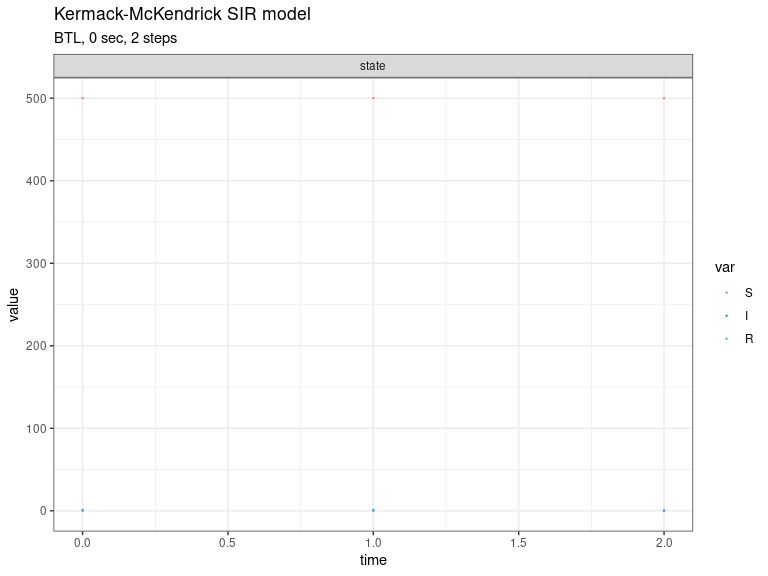
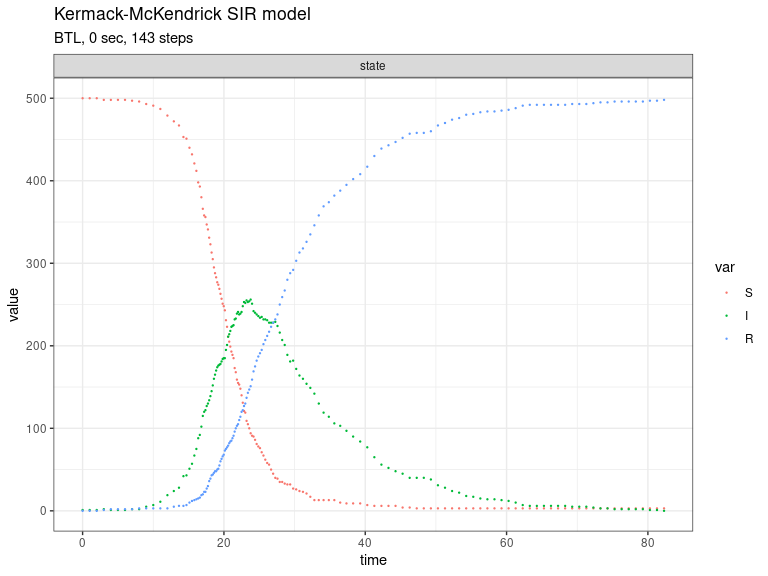
* bug fix in BTL (limiting and limiting_test should be integers, not doubles) * add helper function for testing SSA step methods

diff --git a/src/RcppExports.cpp b/src/RcppExports.cpp
@@ -45,14 +45,30 @@ BEGIN_RCPP
     return rcpp_result_gen;
 END_RCPP
 }
-// make_ssa_btl
-SEXP make_ssa_btl(double f);
-RcppExport SEXP _gillespie_make_ssa_btl(SEXP fSEXP) {
+// test_ssa_step
+List test_ssa_step(SEXP ssa_alg, const NumericVector& state, const NumericVector& propensity, const IntegerVector& nu_i, const IntegerVector& nu_p, const IntegerVector& nu_x);
+RcppExport SEXP _gillespie_test_ssa_step(SEXP ssa_algSEXP, SEXP stateSEXP, SEXP propensitySEXP, SEXP nu_iSEXP, SEXP nu_pSEXP, SEXP nu_xSEXP) {
 BEGIN_RCPP
     Rcpp::RObject rcpp_result_gen;
     Rcpp::RNGScope rcpp_rngScope_gen;
-    Rcpp::traits::input_parameter< double >::type f(fSEXP);
-    rcpp_result_gen = Rcpp::wrap(make_ssa_btl(f));
+    Rcpp::traits::input_parameter< SEXP >::type ssa_alg(ssa_algSEXP);
+    Rcpp::traits::input_parameter< const NumericVector& >::type state(stateSEXP);
+    Rcpp::traits::input_parameter< const NumericVector& >::type propensity(propensitySEXP);
+    Rcpp::traits::input_parameter< const IntegerVector& >::type nu_i(nu_iSEXP);
+    Rcpp::traits::input_parameter< const IntegerVector& >::type nu_p(nu_pSEXP);
+    Rcpp::traits::input_parameter< const IntegerVector& >::type nu_x(nu_xSEXP);
+    rcpp_result_gen = Rcpp::wrap(test_ssa_step(ssa_alg, state, propensity, nu_i, nu_p, nu_x));
+    return rcpp_result_gen;
+END_RCPP
+}
+// make_ssa_btl
+SEXP make_ssa_btl(double mean_firings);
+RcppExport SEXP _gillespie_make_ssa_btl(SEXP mean_firingsSEXP) {
+BEGIN_RCPP
+    Rcpp::RObject rcpp_result_gen;
+    Rcpp::RNGScope rcpp_rngScope_gen;
+    Rcpp::traits::input_parameter< double >::type mean_firings(mean_firingsSEXP);
+    rcpp_result_gen = Rcpp::wrap(make_ssa_btl(mean_firings));
     return rcpp_result_gen;
 END_RCPP
 }
@@ -81,6 +97,7 @@ END_RCPP
 static const R_CallMethodDef CallEntries[] = {
     {"_gillespie_make_ode_em", (DL_FUNC) &_gillespie_make_ode_em, 2},
     {"_gillespie_simulate", (DL_FUNC) &_gillespie_simulate, 18},
+    {"_gillespie_test_ssa_step", (DL_FUNC) &_gillespie_test_ssa_step, 6},
     {"_gillespie_make_ssa_btl", (DL_FUNC) &_gillespie_make_ssa_btl, 1},
     {"_gillespie_make_ssa_direct", (DL_FUNC) &_gillespie_make_ssa_direct, 0},
     {"_gillespie_make_ssa_etl", (DL_FUNC) &_gillespie_make_ssa_etl, 1},

diff --git a/src/ssa_btl.cpp b/src/ssa_btl.cpp
@@ -5,9 +5,9 @@ using namespace Rcpp;
 
 class SSA_BTL : public SSA {
 public:
-  SSA_BTL(double f_) : SSA("BTL"), f(f_) {}
+  SSA_BTL(double mean_firings_) : SSA("BTL"), mean_firings(mean_firings_) {}
 
-  double f;
+  double mean_firings;
 
   void step(
       const NumericVector& state,
@@ -19,35 +19,37 @@ public:
       NumericVector& dstate,
       NumericVector& firings
   ) {
+    // TODO: could split up nu into positive and negative nus
+
     int M = propensity.size();
 
     // Calculate tau
-    double tau = f / sum(propensity);
+    double tau = mean_firings / sum(propensity);
     if (tau > 1.0) tau = 1.0; // tau cannot be larger than one
 
     bool coercing = false;
 
     // Loop over all reaction channels having propensity fun>0
-    double limiting, limiting_test, prob;
-    int k;
+    double prob;
+    int limiting, limiting_test, k;
 
     int nu_pos;
     double nu_val;
     int i, j;
     for (j = 0; j < M; j++) {
       if (propensity[j] > 0) {
-        limiting = -1;
+        limiting = 1;
         for (i = nu_p[j]; i < nu_p[j+1]; i++) {
           nu_val = nu_x[i];
           if (nu_val < 0) {
             nu_pos = nu_i[i];
             limiting_test = (state[nu_pos] + dstate[nu_pos]) / -nu_val;
-            if (limiting == -1 || limiting_test < limiting) {
+            if (limiting_test < limiting) {
               limiting = limiting_test;
             }
           }
         }
-        if (limiting != -1) {
+        if (limiting < 1) {
           prob = propensity[j] * tau / limiting;
           if (prob > 1) {
             coercing = true;
@@ -59,6 +61,9 @@ public:
         }
 
         firings[j] += k;
+
+        // TODO: Could determine firings first,
+        // if prob > 1, mean_firings could be set to 1 for this iteration only
 
         // determine firing effect
         for (i = nu_p[j]; i < nu_p[j+1]; i++) {
@@ -74,8 +79,8 @@ public:
 } ;
 
 // [[Rcpp::export]]
-SEXP make_ssa_btl(double f) {
-  SSA_BTL *ssa = new SSA_BTL(f);
+SEXP make_ssa_btl(double mean_firings) {
+  SSA_BTL *ssa = new SSA_BTL(mean_firings);
   XPtr<SSA_BTL> ptr(ssa);
   return ptr;
 }

diff --git a/src/simulate.cpp b/src/simulate.cpp
@@ -303,3 +303,25 @@ List simulate(
     _["sim_name"] = sim_name
   );
 }
+
+
+// [[Rcpp::export]]
+List test_ssa_step(
+    SEXP ssa_alg,
+    const NumericVector& state,
+    const NumericVector& propensity,
+    const IntegerVector& nu_i,
+    const IntegerVector& nu_p,
+    const IntegerVector& nu_x
+) {
+  SSA *ssa_alg_ = XPtr<SSA>(ssa_alg);
+  double dtime = 0;
+  NumericVector dstate(state.size());
+  NumericVector firings(propensity.size());
+  ssa_alg_->step(state, propensity, nu_i, nu_p, nu_x, &dtime, dstate, firings);
+  return List::create(
+    _["dtime"] = dtime,
+    _["dstate"] = dstate,
+    _["firings"] = firings
+  );
+}

diff --git a/vignettes/sir.md b/vignettes/sir.md
@@ -11,11 +11,8 @@ The Kermack-McKendrick SIR model is defined as
     dI/dt = beta*N*S - gamma*I
     dR/dt = gamma*I
 
-This model consists of two reactions with the following per capita
-rates,
-
-    transmission: beta
-    recovery:     gamma
+Note that simulations of this model can generate in all zero propensity,
+if the first reaction is a recovery of the single ‘Infected’ individual.
 
 Define parameters
 
@@ -31,8 +28,8 @@ Define reactions
 
 ``` r
 reactions <- list(
-  reaction("beta * S * I", c(S = -1, I = +1)),
-  reaction("gamma * I", c(I = -1, R = +1))
+  reaction("beta * S * I", c(S = -1, I = +1), name = "transmission"),
+  reaction("gamma * I", c(I = -1, R = +1), name = "recovery")
 )
 ```
 
@@ -51,7 +48,7 @@ out <- ssa(
 autoplot.ssa(out)
 ```
 
-<img src="sir_files/figure-gfm/direct-1.png" width="100%" />
+![](sir_files/figure-gfm/direct-1.png)<!-- -->
 
 Run simulations with the Explict tau-leap method
 
@@ -68,12 +65,12 @@ out <- ssa(
 autoplot.ssa(out)
 ```
 
-<img src="sir_files/figure-gfm/etl-1.png" width="100%" />
+![](sir_files/figure-gfm/etl-1.png)<!-- -->
 
 Run simulations with the Binomial tau-leap method
 
 ``` r
-set.seed(1)
+set.seed(2)
 out <- ssa(
   initial_state = initial_state,
   reactions = reactions,
@@ -85,4 +82,4 @@ out <- ssa(
 autoplot.ssa(out)
 ```
 
-<img src="sir_files/figure-gfm/btl-1.png" width="100%" />
+![](sir_files/figure-gfm/btl-1.png)<!-- -->

diff --git a/vignettes/decaying_dimer.md b/vignettes/decaying_dimer.md
@@ -51,7 +51,7 @@ out <- ssa(
 autoplot.ssa(out)
 ```
 
-<img src="decaying_dimer_files/figure-gfm/direct-1.png" width="100%" />
+![](decaying_dimer_files/figure-gfm/direct-1.png)<!-- -->
 
 Run simulations with the Explict tau-leap method
 
@@ -68,7 +68,7 @@ out <- ssa(
 autoplot.ssa(out)
 ```
 
-<img src="decaying_dimer_files/figure-gfm/etl-1.png" width="100%" />
+![](decaying_dimer_files/figure-gfm/etl-1.png)<!-- -->
 
 Run simulations with the Binomial tau-leap method
 
@@ -85,4 +85,4 @@ out <- ssa(
 autoplot.ssa(out)
 ```
 
-<img src="decaying_dimer_files/figure-gfm/btl-1.png" width="100%" />
+![](decaying_dimer_files/figure-gfm/btl-1.png)<!-- -->

diff --git a/vignettes/lotka_predator_prey.md b/vignettes/lotka_predator_prey.md
@@ -81,7 +81,7 @@ out <- ssa(
   reactions = reactions,
   params = params,
   final_time = final_time,
-  method = ssa_btl(f = 100),
+  method = ssa_btl(mean_firings = 100),
   sim_name = sim_name
 ) 
 autoplot.ssa(out)

diff --git a/vignettes/linear_chain.md b/vignettes/linear_chain.md
@@ -80,7 +80,7 @@ out <- ssa(
   reactions = reactions,
   params = params,
   final_time = final_time,
-  method = ssa_btl(f = 50),
+  method = ssa_btl(mean_firings = 50),
   sim_name = sim_name
 ) 
 autoplot.ssa(out)

diff --git a/vignettes/logistic_growth.md b/vignettes/logistic_growth.md
@@ -83,7 +83,7 @@ out <- ssa(
   reactions = reactions,
   params = params,
   final_time = final_time,
-  method = ssa_btl(f = 5),
+  method = ssa_btl(mean_firings = 5),
   sim_name = sim_name
 ) 
 autoplot.ssa(out)
